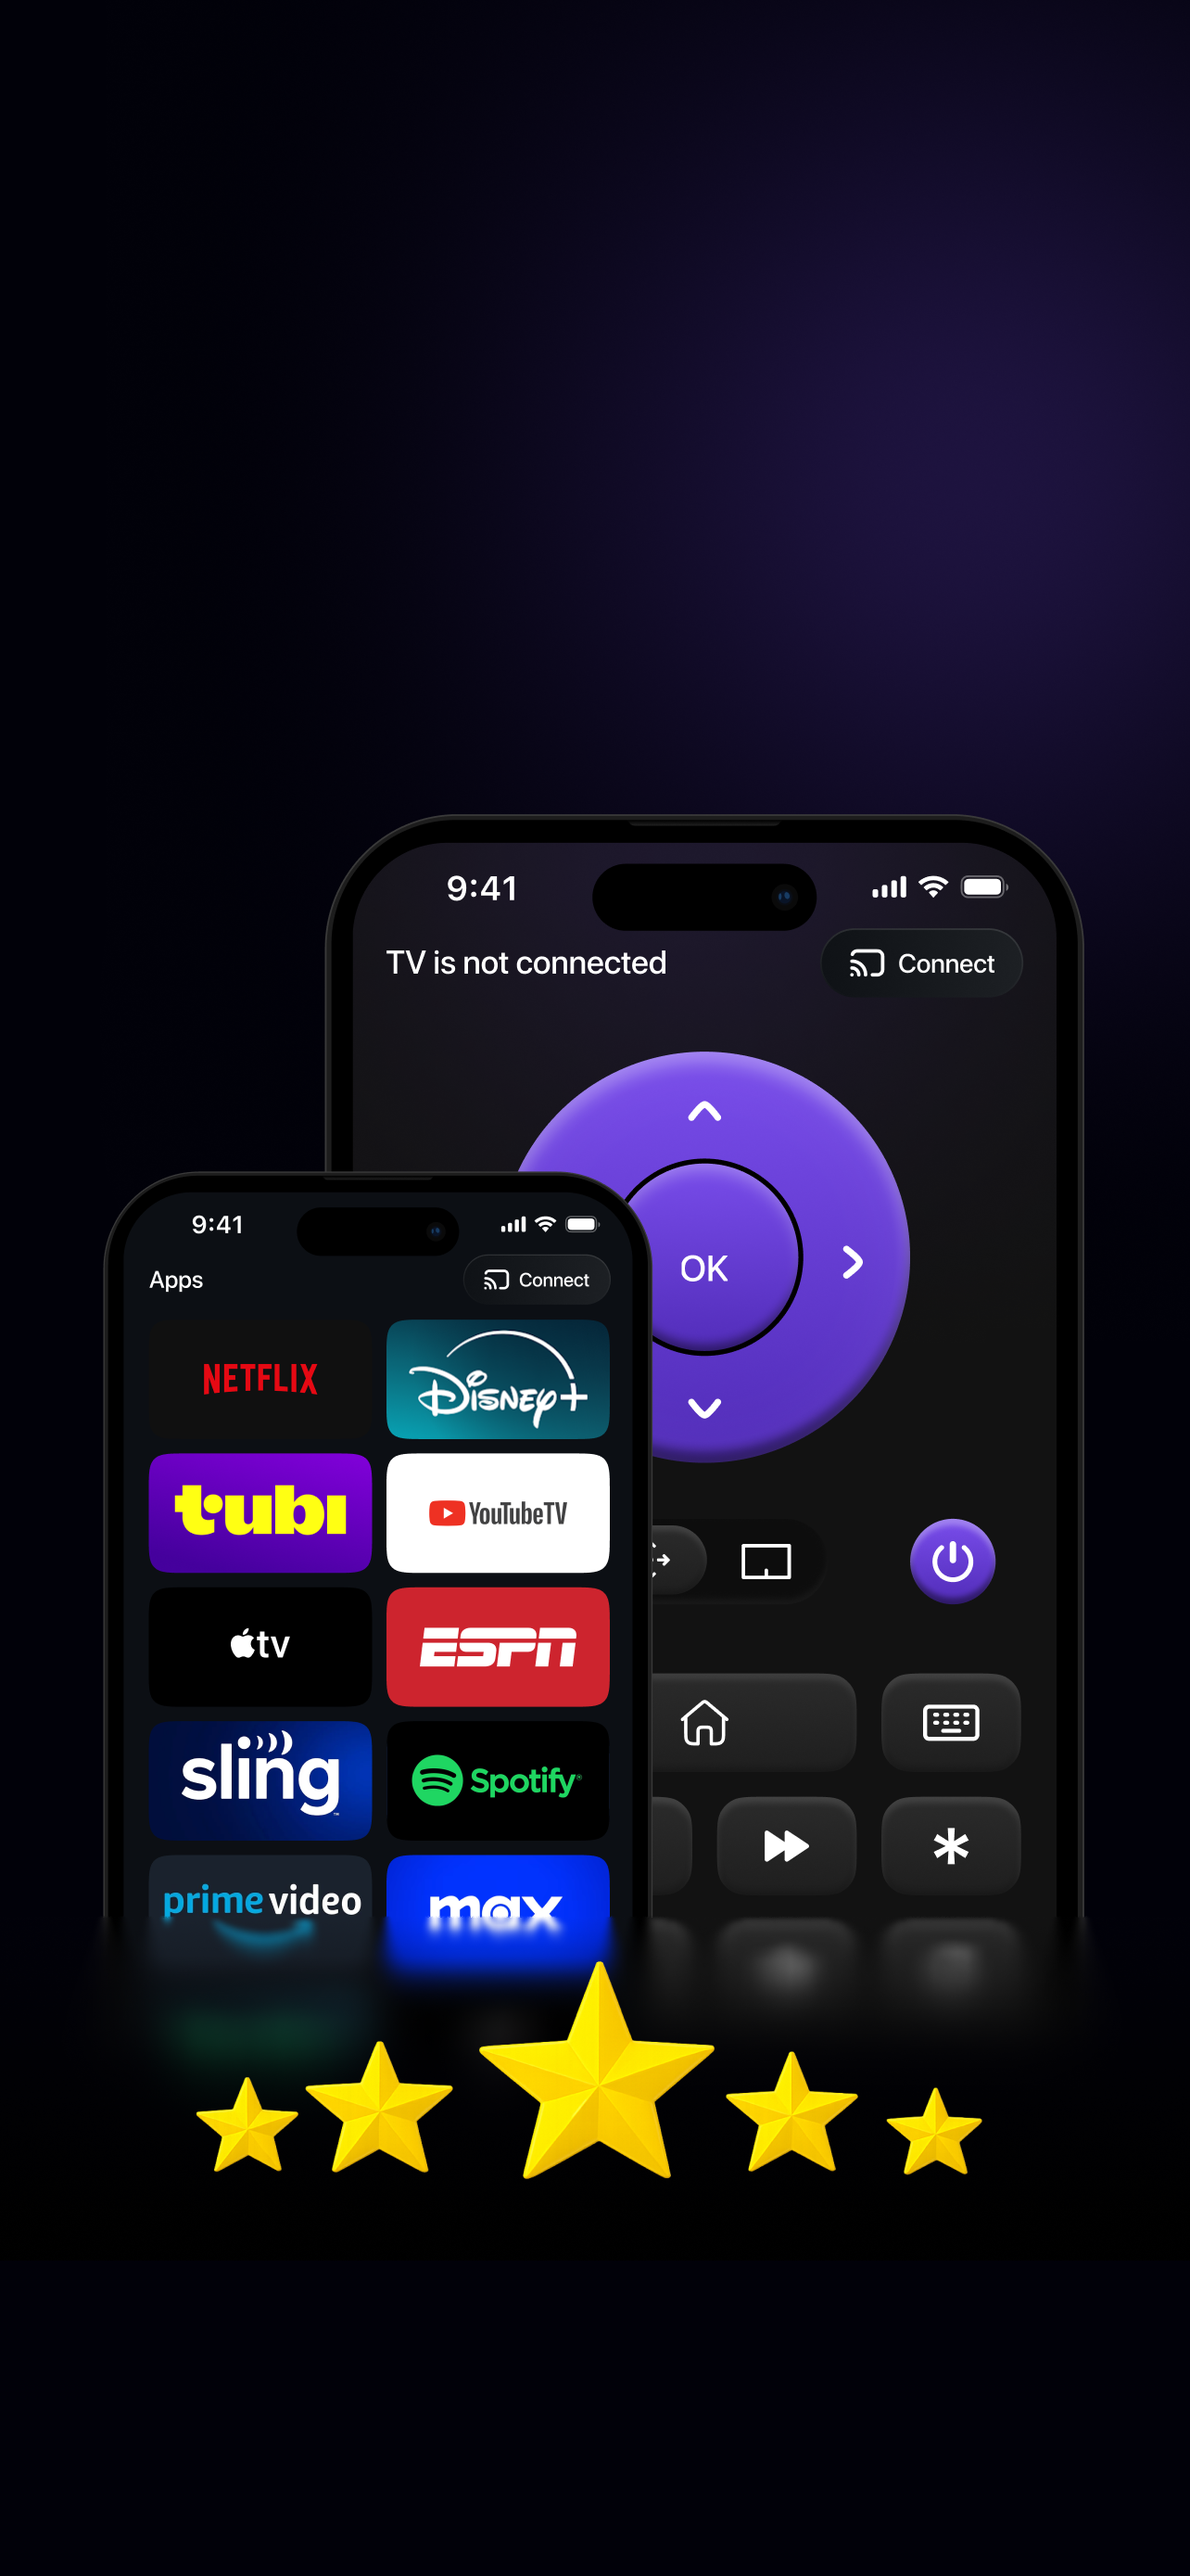
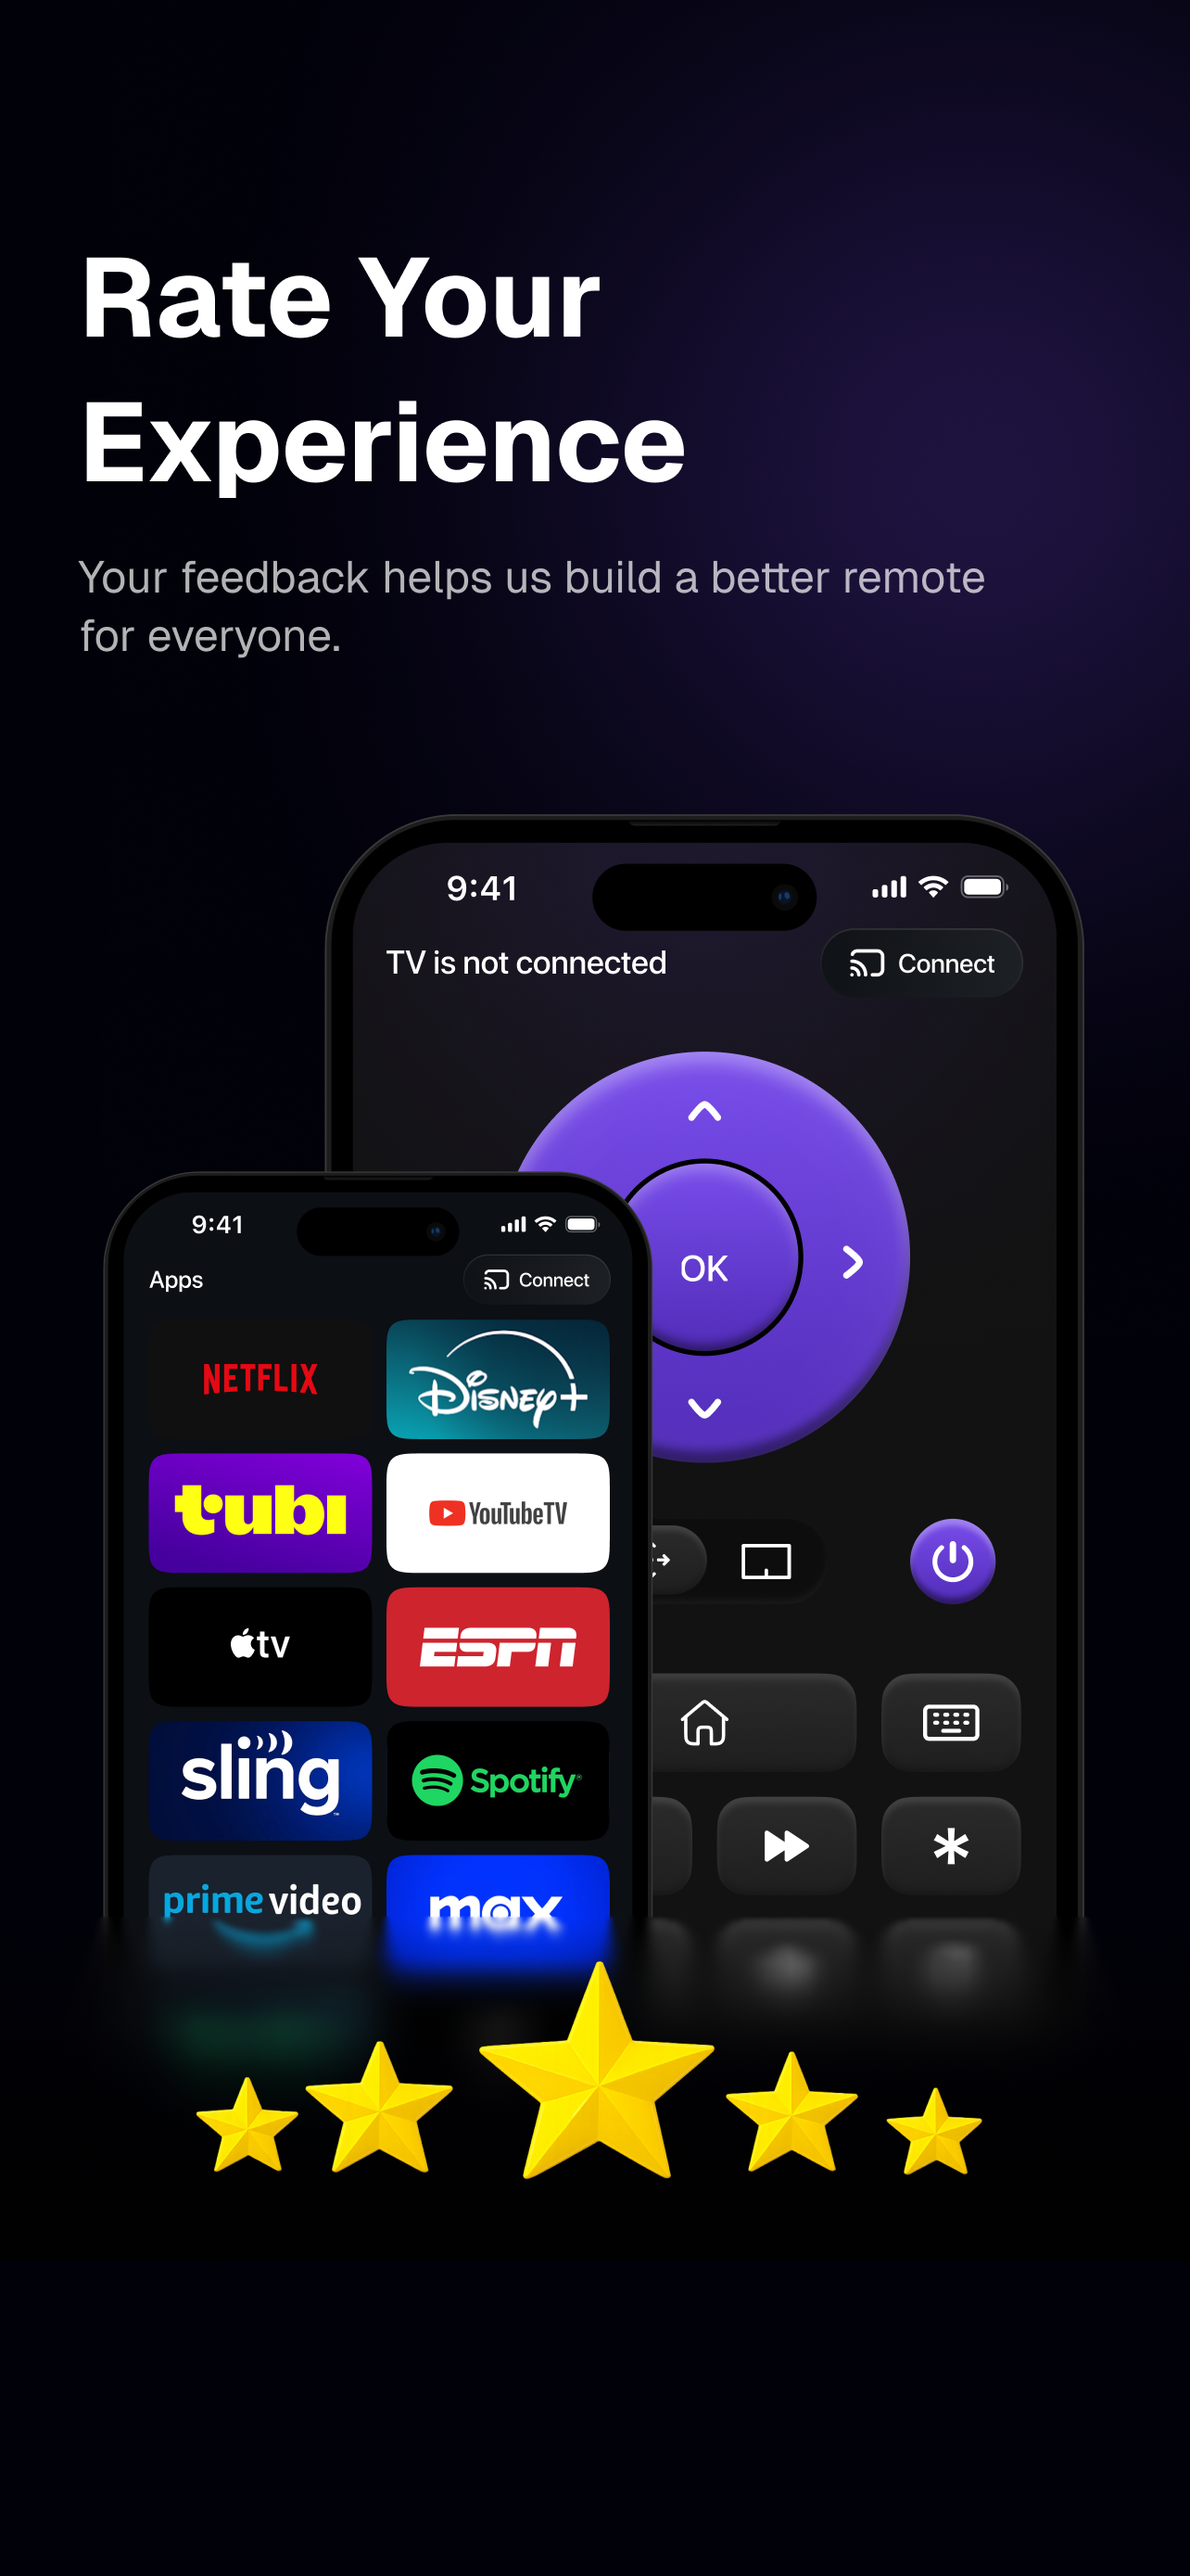
RateUsScreen design done

diff --git a/lib/RatingScreen.dart b/lib/RatingScreen.dart
@@ -1,4 +1,3 @@
-
 import 'package:flutter/material.dart';
 import 'package:flutter_screenutil/flutter_screenutil.dart';
 import '../for_ads/ads/ads_splash_utils.dart';
@@ -9,7 +8,7 @@ import 'package:remote_controller/ui/screens/brand_selection_screen.dart';
 import 'PremiumCreditView.dart';
 
 class Ratingscreen extends StatefulWidget {
-  const Ratingscreen({super.key,});
+  const Ratingscreen({super.key});
 
   @override
   State<Ratingscreen> createState() => _RatingscreenState();
@@ -23,112 +22,142 @@ class _RatingscreenState extends State<Ratingscreen> {
     FirebaseAnalyticsService.logEvent(eventName: 'RATE_US_SCREEN');
     return PopScope(
       canPop: false,
-        child: SafeArea(
+      child: Scaffold(
+        backgroundColor: Colors.black,
+        body: SafeArea(
           top: false,
           child: Stack(
             children: [
               Container(
-                width: double.infinity,
-                height: double.infinity,
-                alignment: Alignment.bottomCenter,
-                // decoration: BoxDecoration(
-                //   image: DecorationImage(
-                //     image: AssetImage("assets/Images/rate us screen (2).png"),
-                //     fit: BoxFit.cover,
-                //   ),
-                // ),
-                child: Column(
-                  mainAxisAlignment: MainAxisAlignment.end,
-                  children: [
-
-                    GestureDetector(
-                      onTap: () async {
-                        if (isratedialog) {
-                          final hasNet = await AdsVariable.isInternetConnected();
-                          if (!hasNet) {
+              width: double.infinity,
+              height: double.infinity,
+              alignment: Alignment.bottomCenter,
+              decoration: BoxDecoration(
+                image: DecorationImage(
+                  image: AssetImage("assets/survay & rate/bg.png"),
+                  fit: BoxFit.cover,
+                ),
+              ),
+              child: Column(
+                mainAxisAlignment: MainAxisAlignment.end,
+                children: [
+                  GestureDetector(
+                    onTap: () async {
+                      if (isratedialog) {
+                        final hasNet = await AdsVariable.isInternetConnected();
+                        if (!hasNet) {
+                          Navigator.pushAndRemoveUntil(
+                            context,
+                            MaterialPageRoute(
+                              builder: (_) => BrandSelectionScreen(
+                                manager: MyApp.globalManager,
+                              ),
+                            ),
+                            (route) => false,
+                          );
+                        } else {
+                          if (AdsVariable.isPurchase) {
                             Navigator.pushAndRemoveUntil(
                               context,
-                              MaterialPageRoute(builder: (_) => BrandSelectionScreen(manager: MyApp.globalManager)),
+                              MaterialPageRoute(
+                                builder: (_) => BrandSelectionScreen(
+                                  manager: MyApp.globalManager,
+                                ),
+                              ),
                               (route) => false,
                             );
                           } else {
-                            if (AdsVariable.isPurchase) {
-                              Navigator.pushAndRemoveUntil(
-                                context,
-                                MaterialPageRoute(builder: (_) => BrandSelectionScreen(manager: MyApp.globalManager)),
-                                (route) => false,
-                              );
-                            } else {
-                              Navigator.pushReplacement(
-                                context,
-                                MaterialPageRoute(
-                                  builder: (_) => PremiumCreditView(
-                                    onboarding: true,
-                                    onDone: () {},
-                                  ),
+                            Navigator.pushReplacement(
+                              context,
+                              MaterialPageRoute(
+                                builder: (_) => PremiumCreditView(
+                                  onboarding: true,
+                                  onDone: () {},
                                 ),
-                              );
-                            }
+                              ),
+                            );
                           }
-                        } else {
-                          await checkAndShowInAppReview("FromRateusScreen");
-                          Future.delayed(Duration(seconds: 2), () {
-                            setState(() {
-                              isratedialog = true;
-                            });
-                          });
                         }
-                      },
-                      child: Container(
-                        width: 350.w,
-                        height: 62.h,
-                        alignment: Alignment.center,
-                        decoration: BoxDecoration(color: Color(0xFF3C8AFF), borderRadius: BorderRadius.circular(60.r)),
-                        child: Text(
-                          isratedialog ? "Continue" : "Rate us Now",
-                          style: TextStyle(fontSize: 20.sp, fontWeight: FontWeight.w600,color: Colors.white),
+                      } else {
+                        await checkAndShowInAppReview("FromRateusScreen");
+                        Future.delayed(Duration(seconds: 2), () {
+                          setState(() {
+                            isratedialog = true;
+                          });
+                        });
+                      }
+                    },
+                    child: Container(
+                      width: MediaQuery.of(context).size.width * 0.9,
+                      height: 62.h,
+                      alignment: Alignment.center,
+                      decoration: BoxDecoration(
+                        borderRadius: BorderRadius.circular(33.33.r),
+                        gradient: const LinearGradient(
+                          begin: Alignment.topCenter,
+                          end: Alignment.bottomCenter,
+                          colors: [Color(0xFF794DEB), Color(0xFF512CB8)],
+                        ),
+                        boxShadow: [
+                          BoxShadow(
+                            color: Colors.black.withValues(alpha: 0.15),
+                            offset: const Offset(0, 4),
+                            blurRadius: 20,
+                            spreadRadius: 0,
+                          ),
+                        ],
+                      ),
+                      child: Text(
+                        isratedialog ? "Continue" : "Rate Us Now",
+                        style: TextStyle(
+                          fontSize: 22.sp,
+                          fontWeight: FontWeight.w700,
+                          color: Colors.white,
+                          fontFamily: 'SF Pro Display',
                         ),
                       ),
                     ),
-                    SizedBox(height: 10.h),
-                  ],
-                ),
+                  ),
+                  SizedBox(height: 10.h),
+                ],
               ),
-              // Positioned(
-              //   top: 50.h,
-              //   left: 20.w,
-              //   child: GestureDetector(
-              //     onTap: () {
-              //       Navigator.pushReplacement(
-              //         context,
-              //         MaterialPageRoute(
-              //           builder: (_) => PremiumCreditView(
-              //             onboarding: true,
-              //             onDone: () {
-              //               Navigator.push(
-              //                 context,
-              //                 MaterialPageRoute(
-              //                   builder: (context) => HomeScreen(),
-              //                 ),
-              //               );
-              //             },
-              //           ),
-              //         ),
-              //       );
-              //     },
-              //     child: Container(
-              //       padding: EdgeInsets.symmetric(vertical: 5.h, horizontal: 5.w),
-              //       child: Image.asset(
-              //         "assets/Images/close.png",
-              //         width: 30.w,
-              //         height: 30.h,
-              //       ),
-              //     ),
-              //   ),
-              // ),
-            ],
-          ),
+            ),
+            // Positioned(
+            //   top: 50.h,
+            //   left: 20.w,
+            //   child: GestureDetector(
+            //     onTap: () {
+            //       Navigator.pushReplacement(
+            //         context,
+            //         MaterialPageRoute(
+            //           builder: (_) => PremiumCreditView(
+            //             onboarding: true,
+            //             onDone: () {
+            //               Navigator.push(
+            //                 context,
+            //                 MaterialPageRoute(
+            //                   builder: (context) => HomeScreen(),
+            //                 ),
+            //               );
+            //             },
+            //           ),
+            //         ),
+            //       );
+            //     },
+            //     child: Container(
+            //       padding: EdgeInsets.symmetric(vertical: 5.h, horizontal: 5.w),
+            //       child: Image.asset(
+            //         "assets/Images/close.png",
+            //         width: 30.w,
+            //         height: 30.h,
+            //       ),
+            //     ),
+            //   ),
+            // ),
+          ],
         ),
+      ),
+      ),
     );
   }
 }

diff --git a/lib/welcomePageView.dart b/lib/welcomePageView.dart
@@ -186,22 +186,14 @@ class WelPageviewState extends State<WelPageview> {
                 GestureDetector(
                   onTap: () {
                     if (currentIndex == dataLength - 1) {
+                      AdsVariable.showRateUsDialogInIntro ?
                       Navigator.pushAndRemoveUntil(
                         context,
                         MaterialPageRoute(
-                          builder: (_) => PremiumCreditView(
-                            onboarding: true,
-                            onDone: () {
-                              Get.offAll(
-                                () => BrandSelectionScreen(
-                                  manager: MyApp.globalManager,
-                                ),
-                              );
-                            },
-                          ),
+                          builder: (_) => Ratingscreen(),
                         ),
                         (route) => false,
-                      );
+                      ) : Navigator.push(context, MaterialPageRoute(builder: (context)=>PremiumCreditView(onboarding: true, onDone: (){})));
                     } else {
                       pageController.nextPage(
                         duration: const Duration(milliseconds: 300),
